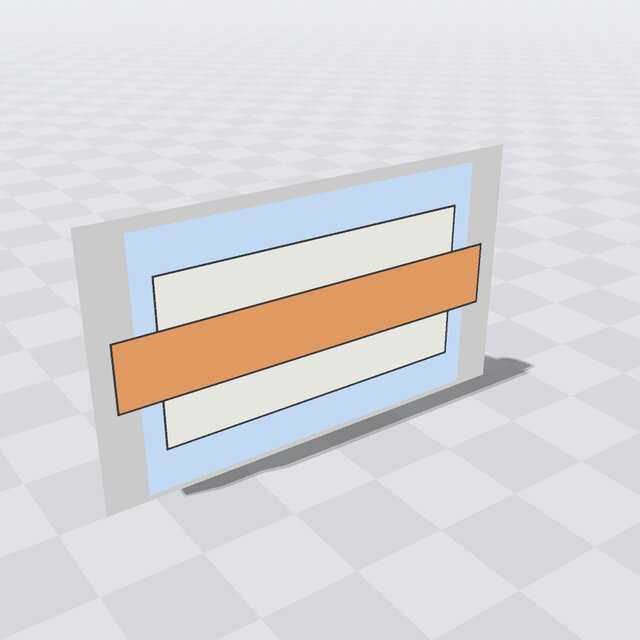
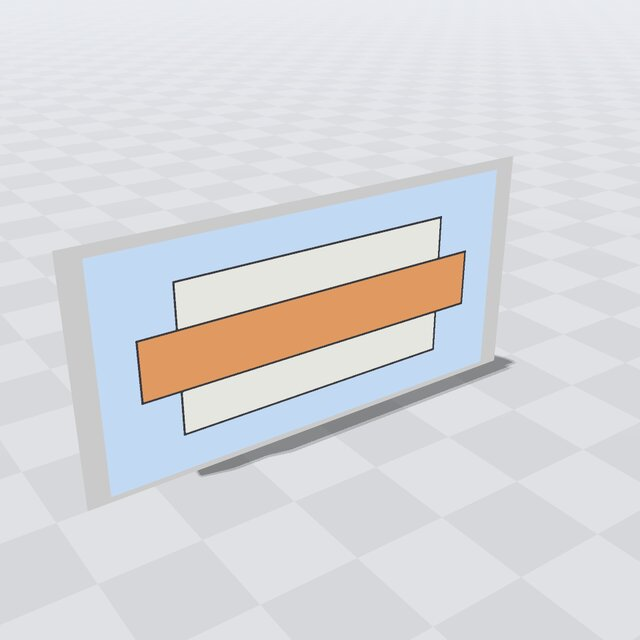
Materials example: the air's box encloses the whole cable
Claude-Session: https://claude.ai/code/session_01FnaeZk1ThKVcT9ypbex2Vt

Changed region(s): [[0.0625, 0.2188, 0.8438, 0.8125], [0.4375, 0.4375, 0.5625, 0.4688]]

diff --git a/Examples/Materials/main.cpp b/Examples/Materials/main.cpp
@@ -31,11 +31,9 @@ main(int argc, char* argv[])
   // A cable along z in a box of air: the air, the jacket on top of it, then the core on top of that (later operands
   // win where they overlap). A union would make one solid of them, and the core's surface would vanish inside the
   // jacket. Each region has a name (which region it is) and a material (what it is made of). The air is a region like
-  // the others: its box is the outer boundary of what a solver computes on, and the core, longer than the box, passes
-  // through its ends.
+  // the others: its box, around the whole cable, is the outer boundary of what a solver computes on.
   const auto air = EBGeometry::RegionName(
-    EBGeometry::MaterialLabel(EBGeometry::BoxSDF<T>(Vec3(T(-1.5), T(-1.5), T(-2.25)), Vec3(T(1.5), T(1.5), T(2.25))),
-                              "air"),
+    EBGeometry::MaterialLabel(EBGeometry::BoxSDF<T>(Vec3(T(-1.5), T(-1.5), T(-3)), Vec3(T(1.5), T(1.5), T(3))), "air"),
     "air");
   const auto jacket =
     EBGeometry::RegionName(EBGeometry::MaterialLabel(

diff --git a/Integrations/AMReX/Materials/main.cpp b/Integrations/AMReX/Materials/main.cpp
@@ -109,10 +109,10 @@ main(int argc, char* argv[])
     pp.query("subdomain", subdomain);
 
     // The regions: the air (1), the jacket (2) on top of it, then the core (3); beyond the air's box, the outside (0).
-    const Expr air = EBGeometry::RegionName(
-      EBGeometry::MaterialLabel(EBGeometry::BoxSDF<T>(Vec3(T(-1.5), T(-1.5), T(-2.25)), Vec3(T(1.5), T(1.5), T(2.25))),
-                                "air"),
-      "air");
+    const Expr air =
+      EBGeometry::RegionName(EBGeometry::MaterialLabel(
+                               EBGeometry::BoxSDF<T>(Vec3(T(-1.5), T(-1.5), T(-3)), Vec3(T(1.5), T(1.5), T(3))), "air"),
+                             "air");
     const Expr jacket = EBGeometry::RegionName(
       EBGeometry::MaterialLabel(EBGeometry::CylinderSDF<T>(Vec3(T(0), T(0), T(-2)), Vec3(T(0), T(0), T(2)), T(1)),
                                 "PTFE"),

diff --git a/Docs/Sphinx/source/ExampleMaterials.rst b/Docs/Sphinx/source/ExampleMaterials.rst
@@ -19,8 +19,8 @@ Regions, not one solid
 A union makes one solid of its operands, and the core's surface would vanish inside the jacket.
 ``Overlay(air, jacket, core)`` stacks them as regions instead, each on top of the ones before it where they overlap
 (see :ref:`Chap:ClosestPrimitive`). ``MaterialLabel()`` names a region's material. The air is a region like the
-others, a box under the cable: its outer faces bound what a solver computes on, and the core, longer than the box,
-passes through its ends. Beyond the box is the outside, region 0, with no material.
+others, a box around the whole cable, under it: its outer faces bound what a solver computes on. Beyond the box is
+the outside, region 0, with no material.
 
 .. code-block:: c++
 
